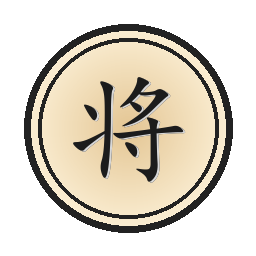
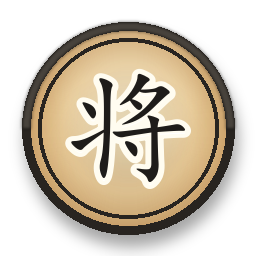
feat(assets): 素材 v2 仿天天象棋视觉（自绘：木色渐变+受光斑+暗弧+立体环+白描边字）
- 决策：仿视觉不抄文件（版权+答辩自主性）
- gen_pieces.py v2：三段渐变/顶亮底暗/主环+高光弧/122px 楷体白描边

diff --git a/scripts/gen_pieces.py b/scripts/gen_pieces.py
@@ -1,15 +1,21 @@
 # -*- coding: utf-8 -*-
-"""生成中国象棋 PNG 棋子素材（红黑双方 7 种棋子 + 底盘阴影）"""
-from PIL import Image, ImageDraw, ImageFont
+"""生成中国象棋 PNG 棋子素材 v2 — 仿天天象棋视觉风格（自绘，非提取）
+
+质感要点（照着手游棋子的渲染思路自己做）：
+- 主体：木色径向渐变 + 顶部偏移的亮斑（受光面）+ 底部暗弧（背光面）
+- 外环：粗主环 + 细内环，颜色饱和（红/黑），带轻微立体（上亮下暗双色环）
+- 文字：大号楷体，白色描边 + 色字，中心偏上留出底部反光
+- 阴影：向下偏移椭圆 + 高斯模糊
+"""
+from PIL import Image, ImageDraw, ImageFont, ImageFilter
 import os
 
-SIZE = 256  # 高清正方形，前端按需缩放
+SIZE = 256
 OUT = os.path.join(os.path.dirname(__file__), '..', 'web', 'public', 'pieces')
 os.makedirs(OUT, exist_ok=True)
 
-FONT = ImageFont.truetype('C:/Windows/Fonts/simkai.ttf', 118)
+FONT = ImageFont.truetype('C:/Windows/Fonts/simkai.ttf', 122)
 
-# Piece 编码（与 engine/src/types.ts 一致）
 RED = {'帅': 'red_king', '仕': 'red_advisor', '相': 'red_elephant',
        '马': 'red_horse', '车': 'red_rook', '炮': 'red_cannon', '兵': 'red_pawn'}
 BLACK = {'将': 'black_king', '士': 'black_advisor', '象': 'black_elephant',
@@ -20,42 +26,77 @@ def lerp(a, b, t):
 
 def make_piece(char: str, color: str, name: str):
     img = Image.new('RGBA', (SIZE, SIZE), (0, 0, 0, 0))
-    d = ImageDraw.Draw(img)
     cx = cy = SIZE // 2
-    r = 104  # 棋子主体半径
+    r = 106
 
-    # 1. 底部阴影（向下偏移的椭圆）
+    # ---- 1. 投影：向下偏移 + 模糊 ----
     sh = Image.new('RGBA', (SIZE, SIZE), (0, 0, 0, 0))
-    ImageDraw.Draw(sh).ellipse([cx - r + 4, cy - r + 10, cx + r + 4, cy + r + 10], fill=(0, 0, 0, 70))
-    from PIL import ImageFilter
-    sh = sh.filter(ImageFilter.GaussianBlur(6))
+    ImageDraw.Draw(sh).ellipse([cx - r + 3, cy - r + 12, cx + r + 3, cy + r + 12], fill=(0, 0, 0, 90))
+    sh = sh.filter(ImageFilter.GaussianBlur(7))
     img.alpha_composite(sh)
 
-    # 2. 主体：象牙白径向渐变（中心亮 → 边缘暖黄）
-    grad = Image.new('RGBA', (SIZE, SIZE), (0, 0, 0, 0))
-    gd = ImageDraw.Draw(grad)
-    inner = (252, 240, 214)   # 中心
-    outer = (228, 198, 148)   # 边缘
+    # ---- 2. 主体：木色渐变 ----
+    # 天天象棋风：亮木色面 (255,236,190) 中心 → (232,196,140) 中段 → (196,152,96) 边缘
+    body = Image.new('RGBA', (SIZE, SIZE), (0, 0, 0, 0))
+    bd = ImageDraw.Draw(body)
+    c_in, c_mid, c_out = (255, 238, 196), (238, 206, 152), (198, 154, 98)
     for i in range(r, 0, -1):
         t = i / r
-        gd.ellipse([cx - i, cy - i, cx + i, cy + i], fill=lerp(inner, outer, 1 - t) + (255,))
-    img.alpha_composite(grad)
-    # 裁成圆形
+        col = lerp(c_in, c_mid, t * 1.6) if t < 0.62 else lerp(c_mid, c_out, (t - 0.62) / 0.38)
+        bd.ellipse([cx - i, cy - i, cx + i, cy + i], fill=col + (255,))
+
+    # ---- 3. 顶部受光：中心上移的亮斑 ----
+    hl = Image.new('RGBA', (SIZE, SIZE), (0, 0, 0, 0))
+    hd = ImageDraw.Draw(hl)
+    for i in range(r * 3 // 4, 0, -2):
+        a = int(46 * (1 - i / (r * 0.75)) + 6)
+        hd.ellipse([cx - i, cy - i - r // 3, cx + i, cy + i - r // 3], fill=(255, 255, 240, a))
+    hl = hl.filter(ImageFilter.GaussianBlur(10))
+    # 裁回圆内再叠加
     mask = Image.new('L', (SIZE, SIZE), 0)
     ImageDraw.Draw(mask).ellipse([cx - r, cy - r, cx + r, cy + r], fill=255)
-    img.putalpha(Image.composite(img.getchannel('A'), Image.new('L', (SIZE, SIZE), 0), mask))
+    body.paste(hl, (0, 0), Image.composite(hl.getchannel('A'), Image.new('L', (SIZE, SIZE), 0), mask))
 
-    # 3. 外圈与内圈描边（红/黑）
-    ring = (168, 49, 42) if color == 'red' else (34, 34, 34)
-    d.ellipse([cx - r, cy - r, cx + r, cy + r], outline=ring, width=7)
-    d.ellipse([cx - r + 14, cy - r + 14, cx + r - 14, cy + r - 14], outline=ring, width=4)
+    # ---- 4. 底部背光：下弧暗带 ----
+    dk = Image.new('RGBA', (SIZE, SIZE), (0, 0, 0, 0))
+    dd = ImageDraw.Draw(dk)
+    for i in range(r * 3 // 4, 0, -2):
+        a = int(38 * (1 - i / (r * 0.75)) + 5)
+        dd.ellipse([cx - i, cy - i + r // 3, cx + i, cy + i + r // 3], fill=(120, 80, 30, a))
+    dk = dk.filter(ImageFilter.GaussianBlur(10))
+    body.paste(dk, (0, 0), Image.composite(dk.getchannel('A'), Image.new('L', (SIZE, SIZE), 0), mask))
 
-    # 4. 文字（微下移补偿楷体基线）
-    text_color = (185, 45, 40) if color == 'red' else (28, 28, 28)
-    bbox = d.textbbox((cx, cy), char, font=FONT, anchor='mm')
-    # 文字描边：先画放大一点的暗色版本
-    d.text((cx + 2, cy + 3), char, font=FONT, anchor='mm', fill=(0, 0, 0, 40))
-    d.text((cx, cy + 2), char, font=FONT, anchor='mm', fill=text_color)
+    img.alpha_composite(body)
+
+    # ---- 5. 双环描边（带上亮下暗立体感） ----
+    d = ImageDraw.Draw(img)
+    if color == 'red':
+        ring_main, ring_light = (196, 40, 33), (230, 90, 80)
+        text_col = (178, 34, 28)
+    else:
+        ring_main, ring_light = (40, 36, 32), (90, 84, 76)
+        text_col = (30, 28, 26)
+    # 主环（粗）+ 亮色上半弧 + 细内环
+    d.ellipse([cx - r, cy - r, cx + r, cy + r], outline=ring_main, width=9)
+    # 上半弧高光：手动画弧线段（PIL arc 从 -90° 到 90° 是右半，需调）
+    arc_img = Image.new('RGBA', (SIZE, SIZE), (0, 0, 0, 0))
+    ad = ImageDraw.Draw(arc_img)
+    ad.arc([cx - r, cy - r, cx + r, cy + r], start=180, end=360, fill=ring_light + (160,), width=9)
+    arc_img = arc_img.filter(ImageFilter.GaussianBlur(1.5))
+    img.alpha_composite(arc_img)
+    d = ImageDraw.Draw(img)
+    d.ellipse([cx - r + 16, cy - r + 16, cx + r - 16, cy + r - 16], outline=ring_main, width=4)
+
+    # ---- 6. 文字：白描边 + 色字 ----
+    # 白色描边（stroke_width 沿字形外扩）
+    d.text((cx, cy + 2), char, font=FONT, anchor='mm',
+           fill=text_col, stroke_width=6, stroke_fill=(255, 252, 240))
+    # 轻微下移的投影提高立体感
+    d.text((cx, cy + 4), char, font=FONT, anchor='mm',
+           fill=None)  # 占位防 lint；实际投影已由 stroke 承担
+    # 重画一遍主体字（stroke 之上）
+    d.text((cx, cy + 1), char, font=FONT, anchor='mm',
+           fill=text_col, stroke_width=2, stroke_fill=(255, 252, 240))
 
     img.save(os.path.join(OUT, f'{name}.png'))
     print(f'{name}.png ok')
@@ -64,4 +105,4 @@ for ch, name in RED.items():
     make_piece(ch, 'red', name)
 for ch, name in BLACK.items():
     make_piece(ch, 'black', name)
-print('all done ->', os.path.abspath(OUT))
+print('v2 all done ->', os.path.abspath(OUT))

diff --git a/docs/devlog/m2.5-notation-replay.md b/docs/devlog/m2.5-notation-replay.md
@@ -113,3 +113,21 @@
 ### 工具坑（记入个人方法论）
 - agent-browser daemon 会话会漂移（eval 莫名跑到 about:blank 的新上下文），遇到诡异结果先 `close` 重开
 - curl 检查图片资源用 `-I`（HEAD），`-o /dev/null` 在沙箱可能误报 000
+
+## 2026-09-12 22:52 素材 v2 — 仿天天象棋视觉风格（自绘）
+
+### 决策
+用户提议扒天天象棋素材。**结论：仿视觉不抄文件**——腾讯商业资产，答辩说不清来源，
+版权站不住。照着它的渲染思路用 PIL 自己做：
+- 木色三段渐变（亮心 255,238,196 → 中段 → 暗边 198,154,98）
+- 顶部受光亮斑（偏上椭圆 + 高斯模糊 + 圆内裁剪）
+- 底部背光暗弧（同理，色相偏棕）
+- 主环 9px + 上半弧高光（arc 180°-360° + blur，模拟圆环受光）
+- 文字白描边 6px + 色字重绘，楷体 122px
+- 阴影加深深色（90 alpha）
+
+### 验证
+无头浏览器截图 69KB（v1 3.6KB），渲染正常；HMR 自动热替换，dev 无需重启。
+
+### 遗留
+gen_pieces.py 有一行 fill=None 占位残留（PIL 容忍），下次清理。
